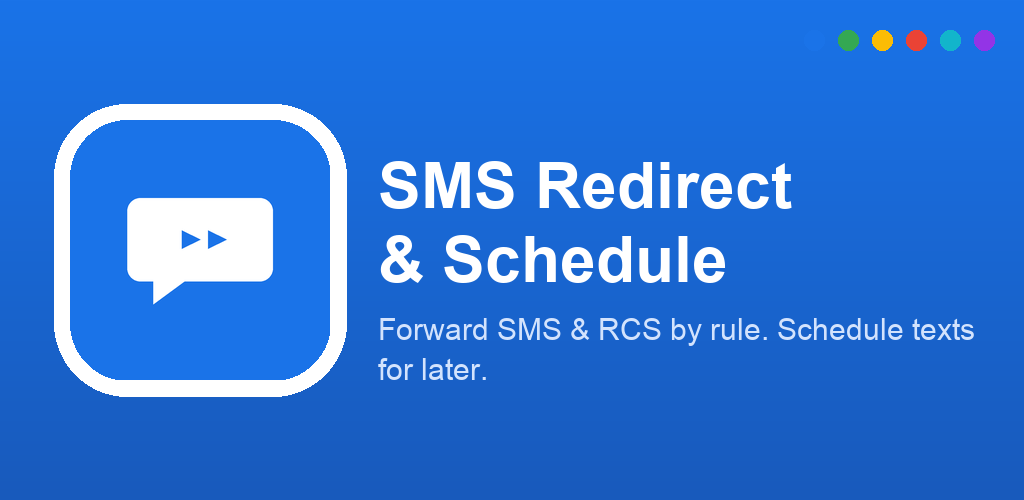
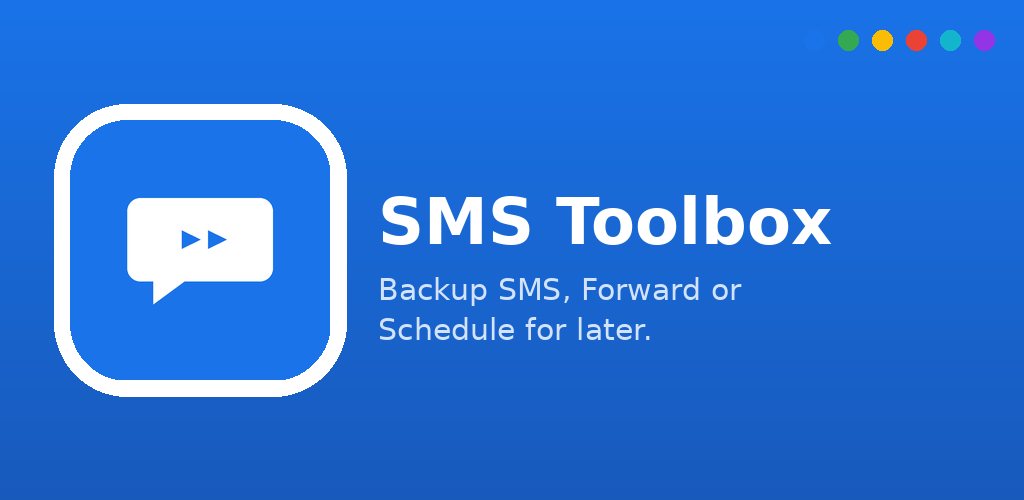
Update store listing graphics, screenshots and copy for SMS Toolbox
generate_assets.py, and everything it generates, still described the old
"SMS Redirect & Schedule" two-tab app. Brings it in line with the actual
three-tab SMS Toolbox:

- New Backup screenshot (phone + both tablet sizes), shown first since
  Backup is the app's landing screen and its declared Play "Backup and
  restore" core use case
- Bottom nav mockup now shows all three tabs (Backup, Redirect, Schedule)
  instead of two, and existing screenshots are renumbered accordingly
- Feature graphic retitled "SMS Toolbox" with a tagline naming all three
  features
- Settings screenshot mirrors the new Landing screen dropdown and the
  "SMS Toolbox:" forward-prefix default (was still showing the old
  "SMS Redirect:" example)
- full_description.txt / release_notes.txt (en-US + pt-PT): fixed the
  same stale "SMS Redirect:" example, a leftover untranslated app name in
  the pt-PT permissions paragraph, release notes that predated the backup
  feature entirely, and added a bullet for the landing-screen preference
- README.md's screenshot list and text-length table updated to match

Changed region(s): [[0.375, 0.3, 0.8125, 0.6], [0.375, 0.63, 0.9688, 0.69], [0.3438, 0.72, 0.4688, 0.78]]

diff --git a/store-listing/scripts/generate_assets.py b/store-listing/scripts/generate_assets.py
@@ -1,7 +1,7 @@
 #!/usr/bin/env python3
 """Generates the Play Store icon, feature graphic, and screenshot mockups
-for SMS Redirect & Schedule — phone, plus 7-inch and 10-inch tablet ("large
-screens") variants.
+for SMS Toolbox — phone, plus 7-inch and 10-inch tablet ("large screens")
+variants.
 
 These are concept/marketing graphics built from the app's real brand colors
 (app/src/main/java/.../presentation/theme/Color.kt) and real UI strings
@@ -215,18 +215,15 @@ def generate_feature_graphic() -> None:
     text_x = icon_x + icon_size + 48
     title_font = bold(64)
     tagline_font = regular(30)
-    title_lines = ["SMS Redirect", "& Schedule"]
-    title_y = h / 2 - 100
+    title_lines = ["SMS Toolbox"]
+    title_y = h / 2 - 66
     for line in title_lines:
         draw.text((text_x, title_y), line, font=title_font, fill=WHITE)
         title_y += 74
 
-    tagline_lines = wrap_text(
-        draw,
-        "Forward SMS by rule. Schedule texts for later.",
-        tagline_font,
-        w - text_x - 40,
-    )
+    # Manually split (rather than wrap_text's greedy fill) so the two lines
+    # come out visually balanced instead of leaving a lone trailing word.
+    tagline_lines = ["Backup SMS, Forward or", "Schedule for later."]
     tagline_y = title_y + 14
     for line in tagline_lines:
         draw.text((text_x, tagline_y), line, font=tagline_font, fill=BRAND_PRIMARY_CONTAINER)
@@ -329,8 +326,10 @@ def draw_bottom_nav(draw: ImageDraw.ImageDraw, screen_box: tuple[int, int, int, 
     top = y1 - BOTTOM_NAV_H
     draw.rectangle((x0, top, x1, y1), fill=WHITE)
     draw.line((x0, top, x1, top), fill=BRAND_OUTLINE, width=3)
-    labels = ["Redirect", "Schedule"]
-    seg_w = (x1 - x0) / 2
+    # Matches MainTab's real order: Backup is the first tab and the app's
+    # landing screen (the declared "Backup and restore" Play use case).
+    labels = ["Backup", "Redirect", "Schedule"]
+    seg_w = (x1 - x0) / len(labels)
     f = bold(28)
     for i, label in enumerate(labels):
         cx = x0 + seg_w * i + seg_w / 2
@@ -386,12 +385,63 @@ def draw_card(
     return y + height + 20
 
 
+def draw_enabled_banner(draw: ImageDraw.ImageDraw, x0: int, x1: int, y: int, label: str) -> int:
+    """A filled green banner with a checkmark — the "grey -> green" enabled
+    state of the real Backup screen's "Enable Backup to Gmail" button."""
+    box = (x0 + 36, y, x1 - 36, y + 110)
+    draw.rounded_rectangle(box, radius=20, fill=BRAND_SECONDARY)
+    r = 22
+    cx, cy = box[0] + 56, (box[1] + box[3]) / 2
+    draw.ellipse((cx - r, cy - r, cx + r, cy + r), fill=WHITE)
+    draw.line((cx - 11, cy, cx - 2, cy + 11), fill=BRAND_SECONDARY, width=7)
+    draw.line((cx - 2, cy + 11, cx + 15, cy - 13), fill=BRAND_SECONDARY, width=7)
+    f = bold(34)
+    draw.text((cx + 46, cy - 20), label, font=f, fill=WHITE)
+    return box[3] + 30
+
+
+def screenshot_backup() -> Image.Image:
+    img, draw, screen_box = new_screenshot_canvas(["Back up your SMS", "safely to your Gmail"])
+    x0, y0, x1, y1 = screen_box
+    draw_status_bar(draw, screen_box)
+    content_top = draw_app_bar(draw, screen_box, "Backup to Gmail", icons=1)
+    # Backup has no "create" action, so the real UI hides the FAB on this
+    # tab — the mockup does the same.
+    draw_bottom_nav(draw, screen_box, active=0)
+
+    y = content_top + 30
+    y = draw_enabled_banner(draw, x0, x1, y, "Backup to Gmail enabled")
+    y = draw_form_field(draw, x0, x1, y, "Gmail label", "SMS")
+    y = draw_form_field(draw, x0, x1, y, "Email subject", "SMS with $CONTACT_NAME ($PHONE_NUMBER)")
+    y += 6
+    y = draw_toggle_row(draw, x0, x1, y, "Backup all previous SMS", False)
+    y += 14
+
+    box = (x0 + 24, y, x1 - 24, y + 150)
+    draw.rounded_rectangle(box, radius=22, fill=WHITE, outline=BRAND_OUTLINE, width=2)
+    f1 = bold(30)
+    f2 = regular(24)
+    draw.text((box[0] + 30, box[1] + 22), "3,214 messages backed up", font=f1, fill=BRAND_ON_SURFACE)
+    draw.text((box[0] + 30, box[1] + 68), "Filed under the “SMS” Gmail label", font=f2, fill=BRAND_ON_SURFACE_VARIANT)
+    draw.text(
+        (box[0] + 30, box[1] + 104),
+        "Continues automatically as new messages arrive",
+        font=f2,
+        fill=BRAND_ON_SURFACE_VARIANT,
+    )
+
+    SCREENSHOTS_DIR.mkdir(parents=True, exist_ok=True)
+    img.save(SCREENSHOTS_DIR / "01-backup.png", "PNG")
+    print("Wrote screenshots/phone/01-backup.png")
+    return img
+
+
 def screenshot_redirect_home() -> Image.Image:
     img, draw, screen_box = new_screenshot_canvas(["Forward SMS", "by simple rules"])
     x0, y0, x1, y1 = screen_box
     draw_status_bar(draw, screen_box)
-    content_top = draw_app_bar(draw, screen_box, "SMS Redirect Rules")
-    nav_top = draw_bottom_nav(draw, screen_box, active=0)
+    content_top = draw_app_bar(draw, screen_box, "Redirect Rules")
+    nav_top = draw_bottom_nav(draw, screen_box, active=1)
 
     y = content_top + 30
     y = draw_category_header(draw, x0, x1, y, "Work", "2 rules")
@@ -403,8 +453,8 @@ def screenshot_redirect_home() -> Image.Image:
 
     draw_fab(draw, screen_box, nav_top)
     SCREENSHOTS_DIR.mkdir(parents=True, exist_ok=True)
-    img.save(SCREENSHOTS_DIR / "01-redirect-rules.png", "PNG")
-    print("Wrote screenshots/phone/01-redirect-rules.png")
+    img.save(SCREENSHOTS_DIR / "02-redirect-rules.png", "PNG")
+    print("Wrote screenshots/phone/02-redirect-rules.png")
     return img
 
 
@@ -439,8 +489,8 @@ def screenshot_create_rule() -> Image.Image:
     bf = bold(32)
     draw_centered_text(draw, (btn_box[0] + btn_box[2]) / 2, btn_box[1] + 24, "Save Rule", bf, WHITE)
 
-    img.save(SCREENSHOTS_DIR / "02-create-rule.png", "PNG")
-    print("Wrote screenshots/phone/02-create-rule.png")
+    img.save(SCREENSHOTS_DIR / "03-create-rule.png", "PNG")
+    print("Wrote screenshots/phone/03-create-rule.png")
     return img
 
 
@@ -449,7 +499,7 @@ def screenshot_schedule_list() -> Image.Image:
     x0, y0, x1, y1 = screen_box
     draw_status_bar(draw, screen_box)
     content_top = draw_app_bar(draw, screen_box, "Scheduled SMS")
-    nav_top = draw_bottom_nav(draw, screen_box, active=1)
+    nav_top = draw_bottom_nav(draw, screen_box, active=2)
 
     y = content_top + 30
     y = draw_category_header(draw, x0, x1, y, "Reminders", "2 items")
@@ -460,8 +510,8 @@ def screenshot_schedule_list() -> Image.Image:
     y = draw_card(draw, x0, x1, y, 150, CATEGORY_ACCENTS[4], "Happy birthday, Ana!", "Next send: 3 Sep, 08:00", "Repeat: Yearly")
 
     draw_fab(draw, screen_box, nav_top)
-    img.save(SCREENSHOTS_DIR / "03-schedule-list.png", "PNG")
-    print("Wrote screenshots/phone/03-schedule-list.png")
+    img.save(SCREENSHOTS_DIR / "04-schedule-list.png", "PNG")
+    print("Wrote screenshots/phone/04-schedule-list.png")
     return img
 
 
@@ -482,8 +532,8 @@ def screenshot_schedule_form() -> Image.Image:
     bf = bold(30)
     draw_centered_text(draw, (btn_box[0] + btn_box[2]) / 2, btn_box[1] + 24, "Save Scheduled SMS", bf, WHITE)
 
-    img.save(SCREENSHOTS_DIR / "04-schedule-form.png", "PNG")
-    print("Wrote screenshots/phone/04-schedule-form.png")
+    img.save(SCREENSHOTS_DIR / "05-schedule-form.png", "PNG")
+    print("Wrote screenshots/phone/05-schedule-form.png")
     return img
 
 
@@ -506,22 +556,24 @@ def screenshot_settings() -> Image.Image:
     content_top = draw_app_bar(draw, screen_box, "Settings", icons=1)
 
     y = content_top + 30
+    y = draw_form_field(draw, x0, x1, y, "Landing screen", "SMS Backup")
+    y += 10
     y = draw_toggle_row(draw, x0, x1, y, "Send while roaming", False)
     y = draw_toggle_row(draw, x0, x1, y, "Keep history", True)
     y = draw_toggle_row(draw, x0, x1, y, "Show notifications", True)
     y += 10
-    y = draw_form_field(draw, x0, x1, y, "Forward message prefix", "SMS Redirect:")
+    y = draw_form_field(draw, x0, x1, y, "Forward message prefix", "SMS Toolbox:")
     y += 10
     btn_box = (x0 + 36, y, (x0 + x1) / 2 - 12, y + 90)
     draw.rounded_rectangle(btn_box, radius=16, outline=BRAND_PRIMARY, width=3)
     bf = bold(26)
-    draw_centered_text(draw, (btn_box[0] + btn_box[2]) / 2, btn_box[1] + 28, "Export Backup", bf, BRAND_PRIMARY)
+    draw_centered_text(draw, (btn_box[0] + btn_box[2]) / 2, btn_box[1] + 28, "Export Config", bf, BRAND_PRIMARY)
     btn_box2 = ((x0 + x1) / 2 + 12, y, x1 - 36, y + 90)
     draw.rounded_rectangle(btn_box2, radius=16, outline=BRAND_PRIMARY, width=3)
-    draw_centered_text(draw, (btn_box2[0] + btn_box2[2]) / 2, btn_box2[1] + 28, "Import Backup", bf, BRAND_PRIMARY)
+    draw_centered_text(draw, (btn_box2[0] + btn_box2[2]) / 2, btn_box2[1] + 28, "Import Config", bf, BRAND_PRIMARY)
 
-    img.save(SCREENSHOTS_DIR / "05-settings.png", "PNG")
-    print("Wrote screenshots/phone/05-settings.png")
+    img.save(SCREENSHOTS_DIR / "06-settings.png", "PNG")
+    print("Wrote screenshots/phone/06-settings.png")
     return img
 
 
@@ -548,8 +600,8 @@ def screenshot_history() -> Image.Image:
         draw.text((box[0] + 30, box[1] + 100), time_line, font=f2, fill=BRAND_ON_SURFACE_VARIANT)
         y += 180
 
-    img.save(SCREENSHOTS_DIR / "06-history.png", "PNG")
-    print("Wrote screenshots/phone/06-history.png")
+    img.save(SCREENSHOTS_DIR / "07-history.png", "PNG")
+    print("Wrote screenshots/phone/07-history.png")
     return img
 
 
@@ -625,7 +677,7 @@ def generate_tablet_screenshot(
     tagline_font = regular(int(out_h * 0.035))
     draw.text(
         (text_x, out_h * 0.86),
-        "SMS Redirect & Schedule",
+        "SMS Toolbox",
         font=tagline_font,
         fill=BRAND_PRIMARY_CONTAINER,
     )
@@ -645,12 +697,13 @@ def main() -> None:
     generate_icon()
     generate_feature_graphic()
     phone_shots = [
-        ("01-redirect-rules.png", ["Forward SMS", "by simple rules"], screenshot_redirect_home()),
-        ("02-create-rule.png", ["Pick a sender,", "pick a target"], screenshot_create_rule()),
-        ("03-schedule-list.png", ["Schedule texts", "to send later"], screenshot_schedule_list()),
-        ("04-schedule-form.png", ["Repeats daily, weekly,", "monthly or yearly"], screenshot_schedule_form()),
-        ("05-settings.png", ["Your data stays", "on your device"], screenshot_settings()),
-        ("06-history.png", ["Full history of every", "forwarded message"], screenshot_history()),
+        ("01-backup.png", ["Back up your SMS", "safely to your Gmail"], screenshot_backup()),
+        ("02-redirect-rules.png", ["Forward SMS", "by simple rules"], screenshot_redirect_home()),
+        ("03-create-rule.png", ["Pick a sender,", "pick a target"], screenshot_create_rule()),
+        ("04-schedule-list.png", ["Schedule texts", "to send later"], screenshot_schedule_list()),
+        ("05-schedule-form.png", ["Repeats daily, weekly,", "monthly or yearly"], screenshot_schedule_form()),
+        ("06-settings.png", ["Your data stays", "on your device"], screenshot_settings()),
+        ("07-history.png", ["Full history of every", "forwarded message"], screenshot_history()),
     ]
     generate_tablet_screenshots(phone_shots)
 

diff --git a/store-listing/README.md b/store-listing/README.md
@@ -15,9 +15,9 @@ store-listing/
 │   ├── icon-512.png                  512x512 hi-res icon
 │   └── feature-graphic-1024x500.png  1024x500 feature graphic
 ├── screenshots/
-│   ├── phone/                        6 captioned 1080x1920 screenshots
-│   ├── sevenInchTablet/              same 6 moments, 1920x1080 "large screen" layout
-│   └── tenInchTablet/                same 6 moments, 2560x1440 "large screen" layout
+│   ├── phone/                        7 captioned 1080x1920 screenshots
+│   ├── sevenInchTablet/              same 7 moments, 1920x1080 "large screen" layout
+│   └── tenInchTablet/                same 7 moments, 2560x1440 "large screen" layout
 ├── scripts/generate_assets.py        regenerates everything under graphics/ + screenshots/
 └── data-safety.md                    cheat-sheet for the Data safety questionnaire
 ```
@@ -26,10 +26,10 @@ store-listing/
 
 | Play Console field | File | Limit | Current length |
 |---|---|---|---|
-| App name | `text/<locale>/title.txt` | 30 chars | 23 (en-US) / 30 (pt-PT) |
-| Short description | `text/<locale>/short_description.txt` | 80 chars | 65 (en-US) / 74 (pt-PT) |
-| Full description | `text/<locale>/full_description.txt` | 4000 chars | 3070 (en-US) / 3593 (pt-PT) |
-| What's new (this release) | `text/<locale>/release_notes.txt` | 500 chars | 287 (en-US) / 322 (pt-PT) |
+| App name | `text/<locale>/title.txt` | 30 chars | 11 (en-US) / 11 (pt-PT) |
+| Short description | `text/<locale>/short_description.txt` | 80 chars | 72 (en-US) / 77 (pt-PT) |
+| Full description | `text/<locale>/full_description.txt` | 4000 chars | 3787 (en-US) / 3931 (pt-PT) |
+| What's new (this release) | `text/<locale>/release_notes.txt` | 500 chars | 355 (en-US) / 381 (pt-PT) |
 
 Paste each file's contents verbatim into the matching field for that locale.
 `pt-PT` matches the tone/wording already used in `app/src/main/res/values-pt/strings.xml`
@@ -61,12 +61,13 @@ generated from the app's real brand colors and strings (not from a running
 emulator, since none was available in this environment) to give the listing
 a strong, on-brand starting point:
 
-1. `01-redirect-rules.png` — Redirect rule list, grouped by category
-2. `02-create-rule.png` — Create Rule form
-3. `03-schedule-list.png` — Scheduled SMS list
-4. `04-schedule-form.png` — Create Schedule SMS form
-5. `05-settings.png` — Settings (privacy-forward toggles + backup)
-6. `06-history.png` — Redirect history
+1. `01-backup.png` — Backup tab, enabled and running (the app's landing screen)
+2. `02-redirect-rules.png` — Redirect rule list, grouped by category
+3. `03-create-rule.png` — Create Rule form
+4. `04-schedule-list.png` — Scheduled SMS list
+5. `05-schedule-form.png` — Create Schedule SMS form
+6. `06-settings.png` — Settings (Gmail account, landing screen, privacy-forward toggles)
+7. `07-history.png` — Redirect history
 
 They already satisfy Play's technical requirements (1080x1920, 24-bit PNG, no
 alpha) and can be uploaded as-is. For pixel-perfect real captures instead,
@@ -76,7 +77,7 @@ action or:
 ```bash
 adb exec-out screencap -p > screenshot.png
 ```
-then recreate the same 6 moments, optionally reusing the caption banners from
+then recreate the same 7 moments, optionally reusing the caption banners from
 `scripts/generate_assets.py` (`new_screenshot_canvas`) as an overlay.
 
 ### Tablet ("large screens") screenshots
@@ -93,7 +94,7 @@ actually looks like on a bigger screen.
 
 They meet Play's current requirements for large-screen screenshots: 16:9
 landscape, both dimensions between 1080 and 7680px, 24-bit PNG with no alpha,
-and 6 images each (Play recommends a minimum of 4, allows up to 8). Uploading
+and 7 images each (Play recommends a minimum of 4, allows up to 8). Uploading
 them is optional — Play only requires phone screenshots to publish — but
 recommended if the app is listed as tablet-compatible, since it isn't
 restricted to phones (no `<supports-screens>` or `<compatible-screens>`
